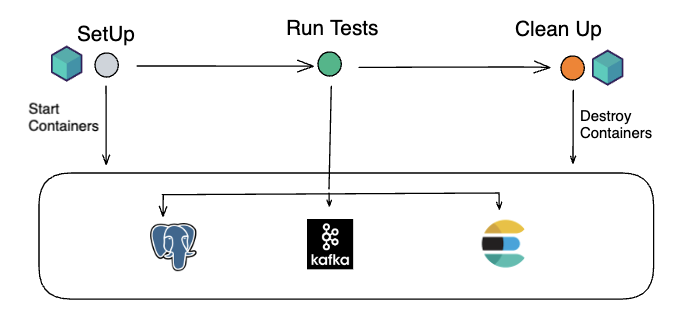
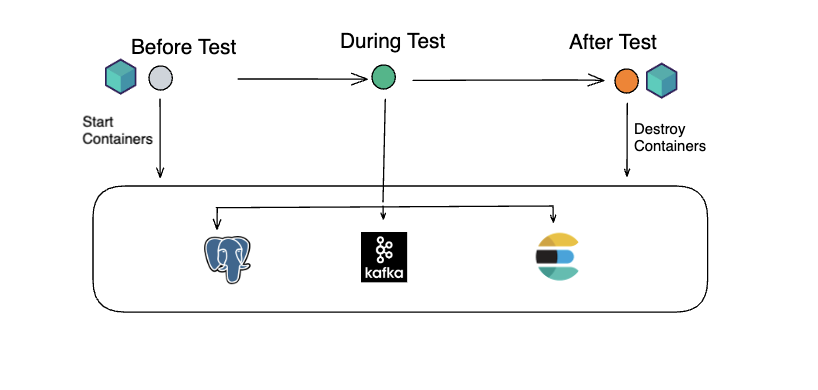
Updated "getting-started" page content and test workflow image.

diff --git a/content/getting-started/index.md b/content/getting-started/index.md
@@ -68,12 +68,11 @@ created resources (containers, volumes, networks etc) and Ryuk automatically per
 resource clean up by matching those labels. 
 This works reliably even when the test process exits abnormally (e.g. sending a SIGKILL).
 
-## Differences with Docker and Docker Compose
-Docker became a must-have tool in the developer's toolbox and is widely adopted for running software systems. 
+### Differences with Docker and Docker Compose
 Docker and Docker Compose can also be used directly for spinning up dependencies that are needed for tests, 
 but this approach has downsides. Creating reliable and fully-initialized service dependencies using 
 raw Docker commands or using Docker Compose requires good knowledge of Docker internals and how to best 
-run specific technologies in a container. Especially, creating a dynamic "integration testing environment" 
+run specific technologies in a container. For example, creating a dynamic "integration testing environment" 
 by directly using Docker commands or docker-compose may result in port conflicts, containers not 
 being fully initialized or ready for interactions when the tests start, etc. 
 Testcontainers libraries leverage the full power of Docker containers under the hood and 
@@ -101,13 +100,14 @@ A typical Testcontainers-based integration test works as follows:
 
 ![Test workflow](./images/test-workflow.png)
 
-* **Before Tests:**
+* **Before Test execution:**
 Start your required services (databases, messaging systems etc.) as Docker containers using the Testcontainers API.
-Once the required containers start, configure or update your application configuration to use these containerized services.
+Once the required containers start, configure or update your application configuration to use these containerized services 
+and optionally initialize data needed for the test.
 
-* **During Tests:** Your tests run using these containerized services.
+* **During Test execution:** Your tests run using these containerized services.
 
-* **After Tests:**
+* **After Test execution:**
 Testcontainers takes care of destroying containers irrespective of whether tests are executed successfully or there were any failures.
 
 ### What technologies can I test with?
